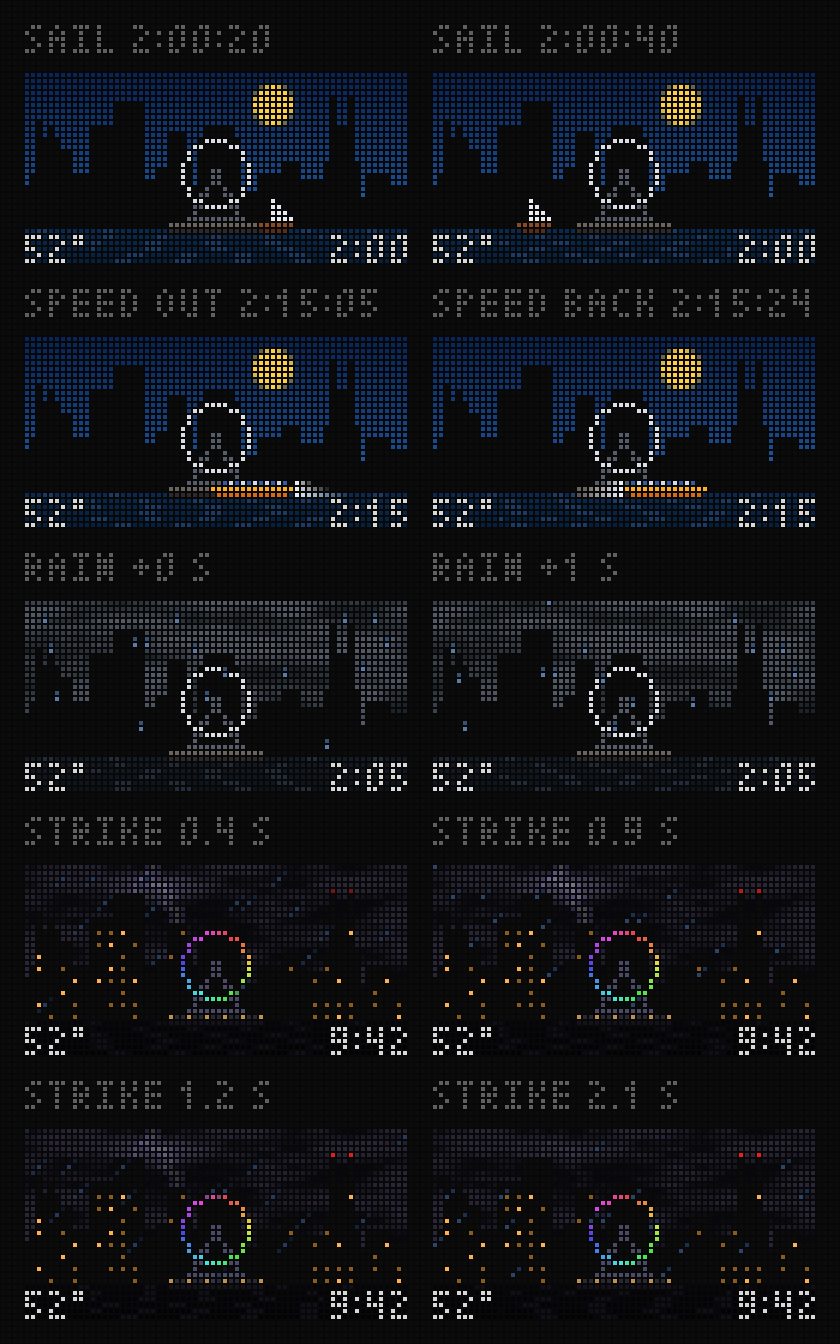
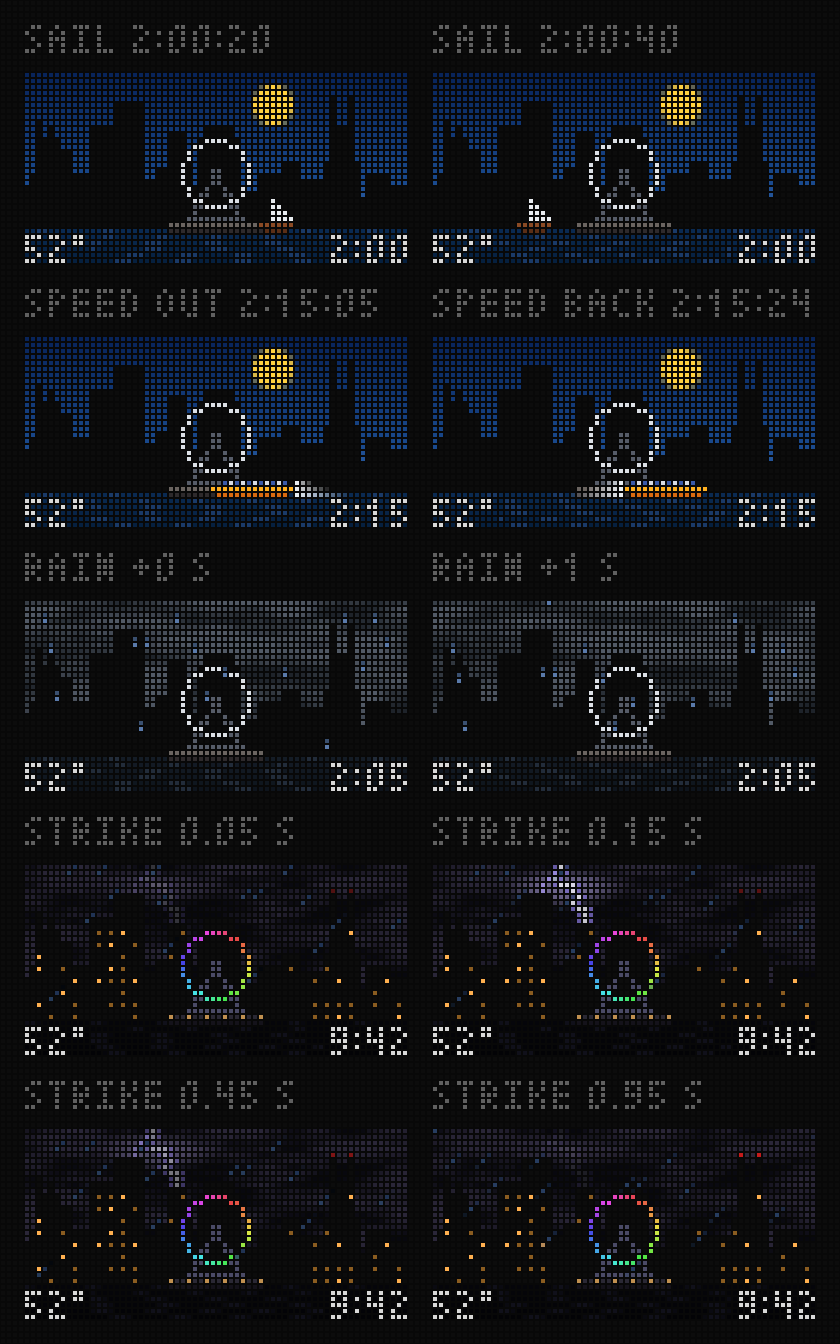
Skyline: quicker, brighter lightning
Strikes rise over 0.15 s and fade over 1.2 s (was 0.6 s / 2.4 s); glow peak
70% (was 45%), bolt 80% (was 35%) with less lavender softening. Still eases
in and out rather than snapping.

Claude-Session: https://claude.ai/code/session_01G1nRWyBJ5H2pgpEftGbAir

diff --git a/server/board/draw.js b/server/board/draw.js
@@ -1728,13 +1728,13 @@
       }
     }
     // Lightning at ms, or null: a strike every 20-40 s (one per 30 s slot,
-    // 0-10 s in), rising over 0.6 s and fading over 2.4 s.
+    // 0-10 s in), rising over 0.15 s and fading over 1.2 s.
     function strikeLevel(ms) {
       const slot = Math.floor(ms / STRIKE_EVERY), start = slot * STRIKE_EVERY + (ih(slot, 7, 7) % 10000);
       const t = (ms - start) / 1000;
-      if (t < 0 || t >= 3) return 0;
-      if (t < 0.6) return sstep01(0, 0.6, t);
-      const u = 1 - (t - 0.6) / 2.4;
+      if (t < 0 || t >= 1.35) return 0;
+      if (t < 0.15) return sstep01(0, 0.15, t);
+      const u = 1 - (t - 0.15) / 1.2;
       return u * u;
     }
     // Where the quarter-hour boat is at ms: {kind, x0, dir} or null.
@@ -1828,17 +1828,17 @@
         const fc = hex(s.fog);
         for (let y = 0; y <= S; y++) { const k = Math.max(0, Math.min(1, (21 - y) / 18)) * 0.85; if (k) for (let x = 0; x < 64; x++) f.set(x, y, mixRgb(f.get(x, y), fc, k)); }
       }
-      // Lightning: a soft glow in the cloud deck with a faint bolt inside it.
+      // Lightning: a glow in the cloud deck with the bolt inside it.
       const lv = s.storm ? strikeLevel(ms) : 0;
       if (lv > 0) {
         const gc = hex(SK.glow);
         for (let y = 0; y <= S; y++) for (let x = 0; x < 64; x++) {
           if (SKY.role[y * 64 + x]) continue;
           const ex = (x + 0.5 - 22) / 11, ey = (y + 0.5 - 4) / 4, d = Math.sqrt(ex * ex + ey * ey);
-          const a = lv * 0.45 * (1 - sstep01(0.3, 1, d));
+          const a = lv * 0.7 * (1 - sstep01(0.3, 1, d));
           if (a > 0.01) f.set(x, y, mixRgb(f.get(x, y), gc, a));
         }
-        const put = (x, y, c) => { if (x >= 0 && x < 64 && y >= 0 && !SKY.role[y * 64 + x]) f.set(x, y, mixRgb(f.get(x, y), hex(mixHex(c, SK.boltSoft, 0.3)), 0.35 * lv)); };
+        const put = (x, y, c) => { if (x >= 0 && x < 64 && y >= 0 && !SKY.role[y * 64 + x]) f.set(x, y, mixRgb(f.get(x, y), hex(mixHex(c, SK.boltSoft, 0.15)), 0.8 * lv)); };
         const core = new Set(BOLT.map(([x, y]) => y * 64 + x));
         for (const [x, y] of BOLT) for (const X of [x - 1, x + 1]) if (!core.has(y * 64 + X)) put(X, y, '#7060c0');
         for (const [x, y] of BOLT_BRANCH) put(x, y, '#9a8ae0');

diff --git a/server/board/skyline-draw.test.js b/server/board/skyline-draw.test.js
@@ -130,7 +130,7 @@ test('boats: the sailboat on :00 and :30, the speedboat out and back on :15 and 
   assert.equal(hull(draw({}, q / 1000, { ms: q + 20000, sky: { ...sky, boats: 0 } })), 0);
 });
 
-test('lightning: soft, about every 20-40 s, rising over 0.6 s and fading by 3 s', () => {
+test('lightning: about every 20-40 s, rising over 0.15 s and fading by 1.35 s', () => {
   const t0 = NIGHT * 1000;
   const starts = [];
   let prev = 0;
@@ -145,7 +145,8 @@ test('lightning: soft, about every 20-40 s, rising over 0.6 s and fading by 3 s'
     assert.ok(gap >= 20 && gap <= 40, `gap ${gap} s`);
   }
   // Drawn only in a storm.
-  const peak = starts[0] + 600;
+  const peak = starts[0] + 150;
+  assert.equal(strikeLevel(starts[0] + 1400), 0, 'over within 1.4 s');
   const sum = (f) => { let n = 0; for (let y = 0; y < 10; y++) for (let x = 12; x < 32; x++) if (!SKY.role[y * 64 + x]) n += f.get(x, y).reduce((a, b) => a + b, 0); return n; };
   const storm = toSkyline({ temp: 52, code: 95, clouds: 100 }, { ...PLACE, now: NIGHT, temp: 52 });
   assert.ok(sum(draw({}, NIGHT, { ms: peak, sky: storm })) > sum(draw({}, NIGHT, { ms: starts[0] - 1000, sky: storm })) * 1.2);

diff --git a/scripts/preview-skyline.js b/scripts/preview-skyline.js
@@ -59,14 +59,14 @@ if (require.main === module) {
     ['RAIN +1 S', frame({ code: 63, clouds: 100 }, DAY, { ms: DAY * 1000 + 1000 })],
   ];
   const sp = stormPeak(NIGHT);
-  for (const dt of [-200, 300, 600, 1500]) motion.push([`STRIKE ${(dt / 1000 + 0.6).toFixed(1)} S`, frame({ code: 95, clouds: 100 }, NIGHT, { ms: sp + dt })]);
+  for (const dt of [-100, 0, 300, 800]) motion.push([`STRIKE ${(dt / 1000 + 0.15).toFixed(2)} S`, frame({ code: 95, clouds: 100 }, NIGHT, { ms: sp + dt })]);
   fs.writeFileSync(path.join(OUT, 'skyline-motion.png'), sheet(motion, 2, 6));
   console.log('wrote skyline-states.png, skyline-dusk.png, skyline-motion.png to', path.relative(process.cwd(), OUT));
 }
 
-// A moment 0.6 s into a lightning strike near `now` (its peak).
+// A moment 0.15 s into a lightning strike near `now` (its peak).
 function stormPeak(now) {
   const { strikeLevel } = require('../server/board/render');
-  for (let ms = now * 1000; ms < now * 1000 + 60000; ms += 100) if (strikeLevel(ms) >= 0.99) return ms;
+  for (let ms = now * 1000; ms < now * 1000 + 60000; ms += 10) if (strikeLevel(ms) >= 0.99) return ms;
   return now * 1000;
 }

diff --git a/firmware/tests/scenarios.js b/firmware/tests/scenarios.js
@@ -520,7 +520,7 @@ async function build() {
       let s0 = NIGHT * 1000;
       while (draw.strikeLevel(s0) === 0) s0 += 100;
       const [p, clouds] = sky({ code: 95, clouds: 100 }, NIGHT);
-      add('skyline lightning', p, [0, 200, 600, 1200, 2400, 2900, 3100].map((dt) => ({ screen: 'clock', ms: s0 + dt })), undefined, undefined, { s3only: true, clouds });
+      add('skyline lightning', p, [0, 50, 100, 200, 400, 800, 1300].map((dt) => ({ screen: 'clock', ms: s0 + dt })), undefined, undefined, { s3only: true, clouds });
     }
     {
       const [p, clouds] = sky({ code: 65, clouds: 100 }, DAY);

diff --git a/firmware-s3/ctaboard/src/draw.cpp b/firmware-s3/ctaboard/src/draw.cpp
@@ -2259,9 +2259,9 @@ double strike_level(double ms) {
   long long slot = (long long)std::floor(ms / sky::STRIKE_EVERY);
   double start = (double)(slot * sky::STRIKE_EVERY + (long long)(ih(slot, 7, 7) % 10000));
   double t = (ms - start) / 1000;
-  if (t < 0 || t >= 3) return 0;
-  if (t < 0.6) return sstep01(0, 0.6, t);
-  double u = 1 - (t - 0.6) / 2.4;
+  if (t < 0 || t >= 1.35) return 0;
+  if (t < 0.15) return sstep01(0, 0.15, t);
+  double u = 1 - (t - 0.15) / 1.2;
   return u * u;
 }
 
@@ -2397,11 +2397,11 @@ static void render_skyline(const Value &p, Frame &f, std::optional<double> now_o
       for (int x = 0; x < 64; x++) {
         if (G.role[y * 64 + x]) continue;
         double ex = (x + 0.5 - 22) / 11, ey = (y + 0.5 - 4) / 4, d = std::sqrt(ex * ex + ey * ey);
-        double a = lv * 0.45 * (1 - sstep01(0.3, 1, d));
+        double a = lv * 0.7 * (1 - sstep01(0.3, 1, d));
         if (a > 0.01) f.set(x, y, mix_rgb(f.get(x, y), sky::GLOW, a));
       }
     auto put = [&](int x, int y, RGB c) {
-      if (x >= 0 && x < 64 && y >= 0 && !G.role[y * 64 + x]) f.set(x, y, mix_rgb(f.get(x, y), mix_rgb(c, sky::BOLT_SOFT, 0.3), 0.35 * lv));
+      if (x >= 0 && x < 64 && y >= 0 && !G.role[y * 64 + x]) f.set(x, y, mix_rgb(f.get(x, y), mix_rgb(c, sky::BOLT_SOFT, 0.15), 0.8 * lv));
     };
     auto in_core = [](int x, int y) { for (const auto &b : sky::BOLT) if (b[0] == x && b[1] == y) return true; return false; };
     for (const auto &b : sky::BOLT)

diff --git a/docs/board/design-spec.md b/docs/board/design-spec.md
@@ -579,7 +579,7 @@ Ambient and slow, on a 100 ms tick:
 | Clouds | strip scrolls 1 px every 16 s by default; per board `cloudDrift`: off (still), slow (16 s), normal (4 s) |
 | Rain | 2 px streaks gliding 1 px every 200 ms along their own line (sub-pixel: the head fades in, the tail out), straight down, or 45° with a cross wind of 8 mph or more; 8 / 16 / 26 streaks for light / moderate / heavy (slowed and thinned so the storm stays in the background). Per board `rainSpeed`: 400, 200, 100 ms |
 | Snow | 1 px down every 700 ms (3.5× the rain step), a 1 px sideways step about every 2 s per flake; 6 / 12 / 20 flakes |
-| Lightning | a strike every 20–40 s (from the hash): a soft patch of the cloud deck (about 22 × 8 px, toward `#8a80b0`, peak 45%) lights up from inside, with the bolt (1 px core, flat violet edges, one branch, ending above the Trump roof; softened toward lavender `#b8b0e8`, peak 35%) inside it. Rises over 0.6 s, fades over 2.4 s. Nothing snaps on or off: the storm stays in the background. Mockup: [`storm.png`](mockups/weather/lake/storm.png), row BOTH |
+| Lightning | a strike every 20–40 s (from the hash): a patch of the cloud deck (about 22 × 8 px, toward `#8a80b0`, peak 70%) lights up from inside, with the bolt (1 px core, flat violet edges, one branch, ending above the Trump roof; a touch of lavender `#b8b0e8`, peak 80%) inside it. Rises over 0.15 s, fades over 1.2 s: a quick flash that still eases in and out (the first version, 45% / 35% over 3 s, was too subtle). Mockup: [`storm.png`](mockups/weather/lake/storm.png), row BOTH |
 | Boats (day) | sailboat on :00 and :30, speedboat round trip on :15 and :45 (below) |
 
 - This screen is the exception to Minimal animation (§2): it has no times to protect, apart from the clock, which only changes at the minute.

diff --git a/docs/board/contract.md b/docs/board/contract.md
@@ -327,7 +327,7 @@ The clock screen's skyline face (design spec §14). The server turns the weather
 | `fog` | Fog color (the city fades into it with height), or `null`. |
 | `roof` | Snow on roof edges and the pier: its color, or `null`. |
 | `pcp` | Precipitation: `{k, n, sl}`, `r` rain or `s` snow, how many streaks or flakes are on screen, and (rain) the slant: `0` straight down, `-1` / `1` 45° left / right (the wind across the view, 8 mph or more; storms without wind data `-1`); or `null`. Rain streaks move 1 px every `fall` ms along their own line with sub-pixel coverage; snow falls 1 px every `fall × 3.5` ms. |
-| `storm` | `1`: lightning, a soft glow in the cloud deck with a faint bolt, every 20–40 s. |
+| `storm` | `1`: lightning every 20–40 s, a glow in the cloud deck with the bolt inside, rising over 0.15 s and fading over 1.2 s. |
 | `boats` | `1`: the quarter-hour boats run (daytime, dry, 40°F or warmer). |
 | `temp` | Temperature in the board's unit, or `null` (also when the board's `showTemp` is off). A top-level `warn` replaces it on screen. |
 | `wheel` | Ms per turn of the night rainbow (`wheelSpeed`: 0 still, 60000, 30000, 15000). Absent: 30000. |
